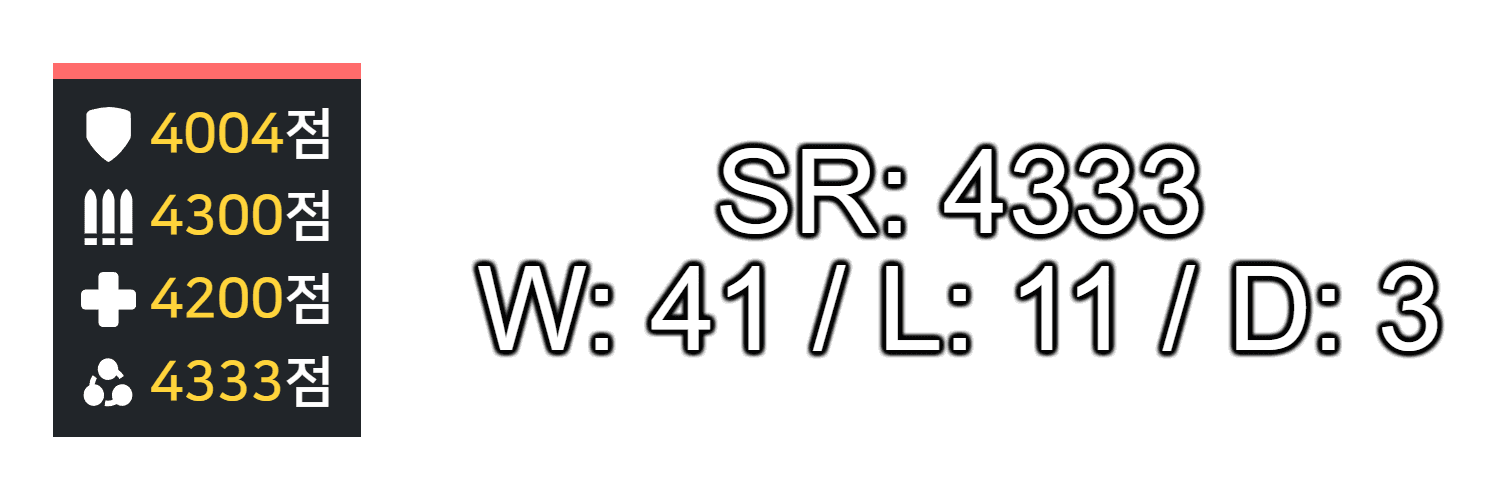
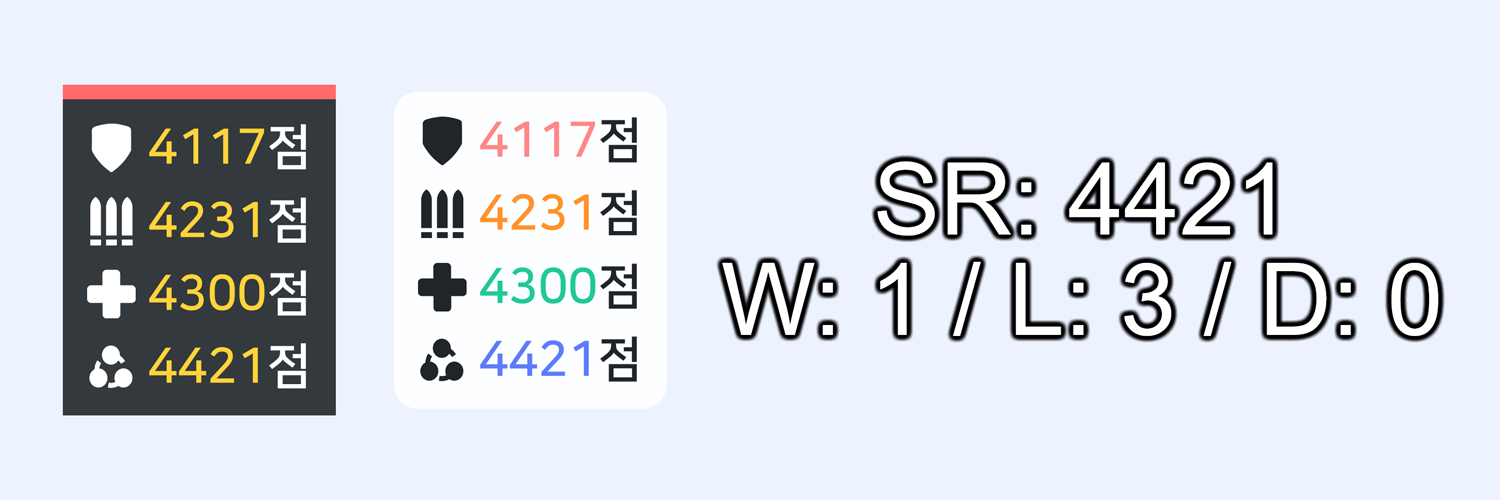
Added New Theme

diff --git a/graphics/css/pastel.css b/graphics/css/pastel.css
@@ -1,0 +1,111 @@
+@font-face {
+ font-family: 'NanumSquare';
+ font-weight: 700;
+ src: url(NanumSquareB.woff2) format('woff2');
+}
+
+html, body {
+    display: flex;
+    justify-content: center;
+    align-items: center;
+    font: 700 4.7vw "NanumSquare", sans-serif;
+    color: #212529;
+    background-color: transparent;
+    margin: 0;
+    padding: 0;
+    width: 100vw;
+    height: 100vh;
+}
+
+.main {
+    display: flex;
+    flex-direction: column;
+    background: rgba(255,255,255,.9);
+    overflow: hidden;
+    line-height: 1em;
+    border-radius: .5rem;
+}
+
+.horizontal {
+    display: flex;
+    flex-direction: row;
+    justify-content: center;
+    align-items: center;
+}
+
+.vertical,
+.rotation {
+    display: flex;
+    flex-direction: column;
+    justify-content: center;
+    align-items: flex-start;
+}
+
+.box {
+    overflow: hidden;
+    padding: .5rem;
+}
+
+.horizontal {
+    overflow: hidden;
+    padding: .5rem .5rem .5rem .25rem;
+}
+
+.rotation {
+    padding: 1.5rem .5rem .5rem .5rem;
+}
+
+.icon {
+    width: 1em;
+    height: 1em;
+    margin-right: .25em;
+}
+
+.horizontal .icon {
+    margin: 0 .25em;
+}
+
+.msg {
+    display: flex;
+    flex-direction: row;
+    justify-content: flex-start;
+    align-items: center;
+    margin: 0;
+    box-sizing: border-box;
+}
+
+.vertical {
+    padding: .25rem .5rem;
+}
+
+.vertical .msg {
+    padding: .25rem 0;
+}
+
+.disable {
+    display: none;
+}
+
+.rotation .l1,
+.rotation .l2,
+.rotation .l3,
+.rotation .l4 {
+    margin-top: -1em;
+    opacity: 0;
+}
+
+#skillrateTank {
+    color: #ff8787;
+}
+
+#skillrateDamage {
+    color: #ff922b;
+}
+
+#skillrateSupport {
+    color: #20c997;
+}
+
+#skillrateFlex {
+    color: #5c7cfa;
+}

diff --git a/graphics/overwatch_pastel.html b/graphics/overwatch_pastel.html
@@ -1,0 +1,33 @@
+<!DOCTYPE html>
+<html lang="ko">
+<head>
+	<title>오버워치 점수 오버레이</title>
+	<meta charset="UTF-8">
+	<link rel="stylesheet" href="css/pastel.css">
+	<script src="js/jquery-3.3.1.min.js"></script>
+	<script src="js/anime.min.js"></script>
+</head>
+<body>
+	<div class="main">
+        <div id="mode" class="box">
+            <div class="msg l1">
+                <img class="icon" src="img/icon_tank_dark.svg">
+                <span id="skillrateTank">0</span>점
+            </div>
+            <div class="msg l2">
+                <img class="icon" src="img/icon_damage_dark.svg">
+                <span id="skillrateDamage">0</span>점
+            </div>
+            <div class="msg l3">
+                <img class="icon" src="img/icon_support_dark.svg">
+                <span id="skillrateSupport">0</span>점
+            </div>
+            <div class="msg l4">
+                <img class="icon" src="img/icon_flex_dark.svg">
+                <span id="skillrateFlex">0</span>점
+            </div>
+        </div>
+	</div>
+    <script src="js/overwatch.js"></script>
+</body>
+</html>

diff --git a/graphics/overwatch_ml7.html b/graphics/overwatch_ml7.html
@@ -17,11 +17,9 @@
             <div class="l2">
                 <span>W: </span>
                 <span id="victory">0</span>
-                <span> / </span>
-                <span>L: </span>
+                <span> / L: </span>
                 <span id="defeat">0</span>
-                <span> / </span>
-                <span>D: </span>
+                <span> / D: </span>
                 <span id="draw">0</span>
             </div>
         </div>

diff --git a/graphics/css/ml7.css b/graphics/css/ml7.css
@@ -1,12 +1,10 @@
-@import url(https://cdn.jsdelivr.net/gh/moonspam/NanumSquare@1.0/nanumsquare.css);
-
 html, body {
     display: flex;
     justify-content: center;
     align-items: center;
     font: 400 10vw "Arial", sans-serif;
     color: #fff;
-    background-color: rgba(0,0,0,0);
+    background-color: transparent;
     margin: 0;
     padding: 0;
     width: 100vw;

diff --git a/README.md b/README.md
@@ -4,6 +4,7 @@
 ## 기능
 * 오버워치 점수 표시 오버레이
   * 기본 스킨
+  * 파스텔 스킨
   * mL7 스타일 스킨
   
 ## 설치 방법
@@ -25,9 +26,9 @@ NodeCG 접속 후 Graphics 메뉴에서 링크를 복사합니다. 그리고 OBS
 
 ### 오버워치 점수 표시 오버레이
 ![오버워치 점수 표시 오버레이](readme/overwatch_layout.png)
-Graphics 메뉴로 가면 `overwatch.html` 그리고 `overwatch_ml7.html`을 볼 수 있는데. 점수 표시 스타일이 각각 다른 기능을 가지고 있습니다.
+Graphics 메뉴로 가면 `overwatch.html`, `overwatch_pastel.html`과 `overwatch_ml7.html`을 볼 수 있는데. 점수 표시 스타일이 각각 다른 기능을 가지고 있습니다.
 
-`overwatch.html`은 기본 스킨이며 **돌격군, 공격군, 지원군과 자유 경쟁전 점수**를 한번에 보여줄 수 있게 해 주거나 순서대로 표시해 줄수 있습니다. **대신 전적은 표시할 수 없습니다.**
+`overwatch.html`, `overwatch_pastel.html`은 기본 디자인이며 **돌격군, 공격군, 지원군과 자유 경쟁전 점수**를 한번에 보여줄 수 있게 해 주거나 순서대로 표시해 줄수 있습니다. **대신 전적은 표시할 수 없습니다.**
 
 `overwatch_ml7.html`은 [mL7](https://twitch.tv/ml7support) 님의 방송에 쓰이는 점수 표시 스타일이며 **경쟁전 플레이 전적**을 표시할 수 있습니다. 단, 점수는 **자유 경쟁전 점수**만 쓰입니다.
 
